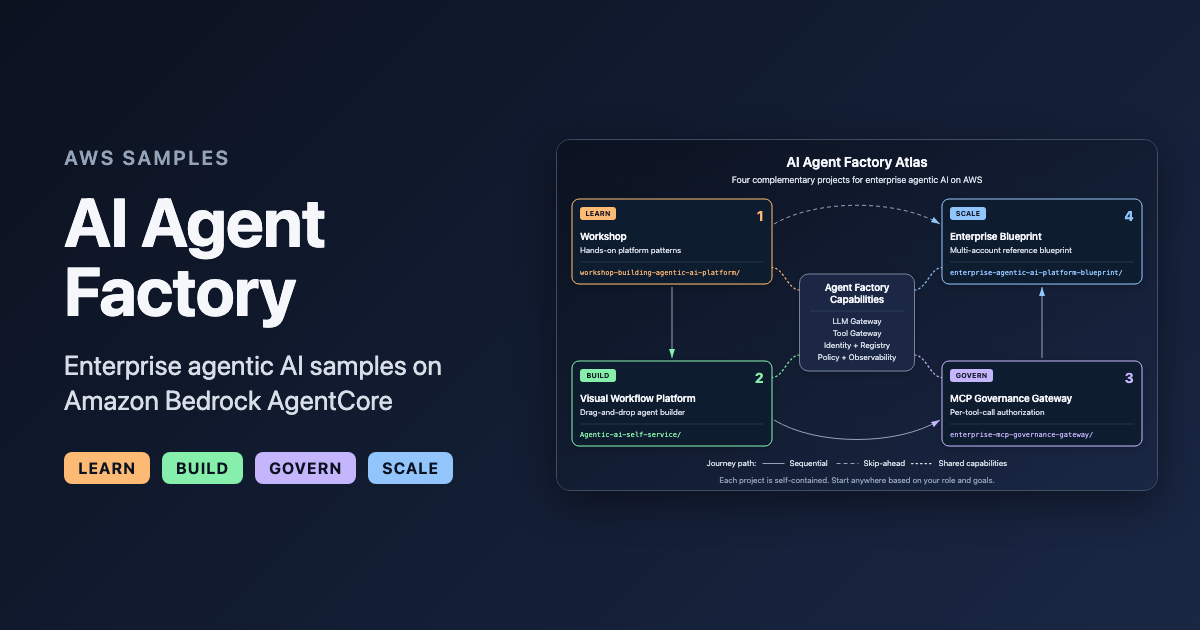
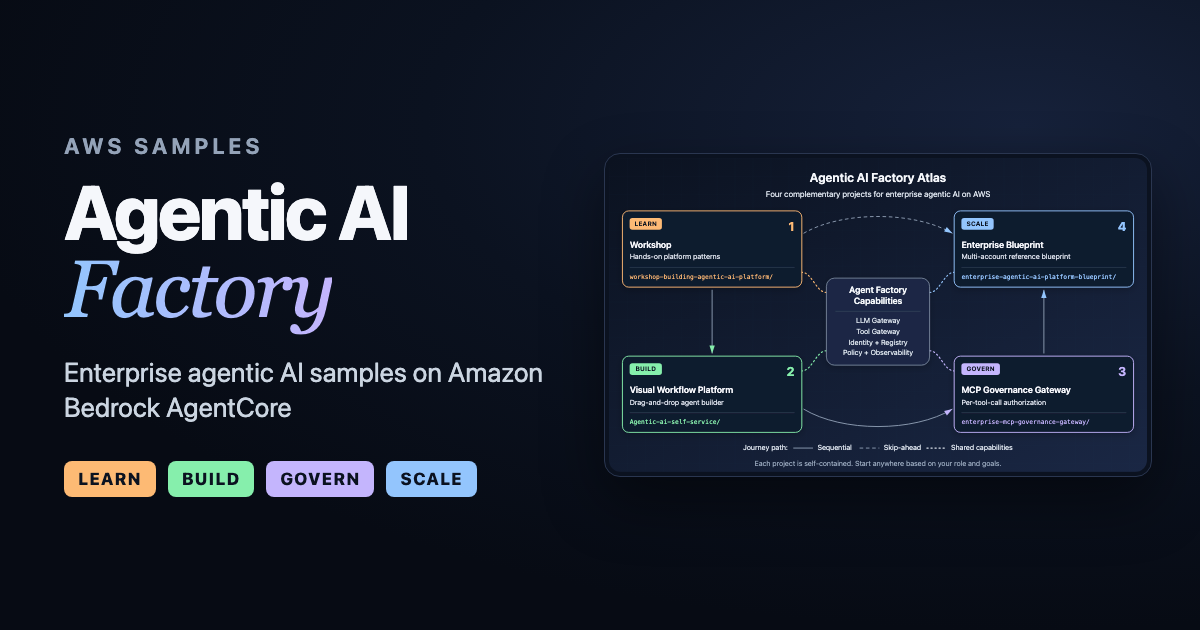
feat(docs-site): neon constellation and rename to Agentic AI Factory
The Home hero constellation draws from a dedicated neon palette
(--constellation-* tokens: amber, green, violet, cyan) instead of the
pastel on-dark text colours. Each node is a wide halo, a glow disc, a
solid core and a hot white centre; edges and the pulse are brighter and
slightly thicker. COPY_DIM is unchanged so the hero copy keeps its
contrast, and the chunk stays under its gzip budget.

Every "AI Agent Factory" in the docs site becomes "Agentic AI Factory":
site name, titles and descriptions, the Home h1, header logo, concept
page, not-found page, llms.txt and sitemap generation, the Playwright
site name and the docs-site README. The repository Atlas SVG rendered on
Home and Architecture carries the same rename. The social card is
regenerated by a new reproducible script, scripts/social-card.mjs.

The repository slug, package name and root README are unchanged.

Gates: typecheck, lint, 987 unit tests with the design lint, build, and
the Playwright suite (421 passed).

diff --git a/docs-site/src/components/constellation/render.ts b/docs-site/src/components/constellation/render.ts
@@ -1,4 +1,15 @@
-import { COPY_DIM, GLOW_RADIUS, PULSE_TAIL, edgesOf, inRect, type EngineState, type Rect } from './engine';
+import {
+  COPY_DIM,
+  CORE_HIGHLIGHT,
+  CORE_HIGHLIGHT_ALPHA,
+  GLOW_ALPHA,
+  GLOW_RADIUS,
+  PULSE_TAIL,
+  edgesOf,
+  inRect,
+  type EngineState,
+  type Rect,
+} from './engine';
 
 /**
  * The subset of CanvasRenderingContext2D the renderer uses. Typed structurally so unit tests can
@@ -44,7 +55,7 @@ export function drawFrame(ctx: Canvas2D, state: EngineState, palette: Palette, {
   ctx.lineCap = 'round';
 
   // Edges: colour of the lower-index node, alpha by distance, dimmed under the copy.
-  ctx.lineWidth = 1;
+  ctx.lineWidth = 1.5;
   for (const edge of edgesOf(state)) {
     const a = nodes[edge.a];
     const b = nodes[edge.b];
@@ -58,18 +69,27 @@ export function drawFrame(ctx: Canvas2D, state: EngineState, palette: Palette, {
     ctx.stroke();
   }
 
-  // Nodes: a faint glow disc and a small solid core.
+  // Nodes: a wide soft halo, a glow disc, a solid core and a hot white centre, so each point reads as a neon light.
   for (const node of nodes) {
     const dim = dimFor(copyRegion, node.x, node.y);
     const colour = palette.stages[node.stage % palette.stages.length];
     ctx.fillStyle = colour;
-    ctx.globalAlpha = node.alpha * 0.12 * dim;
+    ctx.globalAlpha = node.alpha * (GLOW_ALPHA / 3) * dim;
+    ctx.beginPath();
+    ctx.arc(node.x, node.y, GLOW_RADIUS * 2, 0, Math.PI * 2);
+    ctx.fill();
+    ctx.globalAlpha = node.alpha * GLOW_ALPHA * dim;
     ctx.beginPath();
     ctx.arc(node.x, node.y, GLOW_RADIUS, 0, Math.PI * 2);
     ctx.fill();
     ctx.globalAlpha = node.alpha * dim;
     ctx.beginPath();
     ctx.arc(node.x, node.y, node.radius, 0, Math.PI * 2);
+    ctx.fill();
+    ctx.fillStyle = CORE_HIGHLIGHT;
+    ctx.globalAlpha = node.alpha * CORE_HIGHLIGHT_ALPHA * dim;
+    ctx.beginPath();
+    ctx.arc(node.x, node.y, node.radius * 0.45, 0, Math.PI * 2);
     ctx.fill();
   }
 
@@ -87,15 +107,19 @@ export function drawFrame(ctx: Canvas2D, state: EngineState, palette: Palette, {
     const colour = palette.stages[from.stage % palette.stages.length];
     ctx.strokeStyle = colour;
     ctx.fillStyle = colour;
-    ctx.lineWidth = 1.5;
-    ctx.globalAlpha = 0.45 * dim;
+    ctx.lineWidth = 2;
+    ctx.globalAlpha = 0.6 * dim;
     ctx.beginPath();
     ctx.moveTo(tailX, tailY);
     ctx.lineTo(headX, headY);
     ctx.stroke();
-    ctx.globalAlpha = 0.9 * dim;
+    ctx.globalAlpha = 0.35 * dim;
     ctx.beginPath();
-    ctx.arc(headX, headY, 2, 0, Math.PI * 2);
+    ctx.arc(headX, headY, 7, 0, Math.PI * 2);
+    ctx.fill();
+    ctx.globalAlpha = 1 * dim;
+    ctx.beginPath();
+    ctx.arc(headX, headY, 2.5, 0, Math.PI * 2);
     ctx.fill();
   }
 

diff --git a/docs-site/src/pages/concepts/ArchitecturePage.tsx b/docs-site/src/pages/concepts/ArchitecturePage.tsx
@@ -41,7 +41,7 @@ const BLUEPRINT_NAME = projects.find((project) => project.id === 'blueprint')?.n
 
 /** Mirrors the text labels inside the SVG, including its own project names. */
 const ATLAS_ALT =
-  'AI Agent Factory Atlas: four complementary projects for enterprise agentic AI on AWS. In the centre sits a hub labelled Agent Factory Capabilities: LLM Gateway, Tool Gateway, Identity and Registry, Policy and Observability. Around it, four stages in order. Learn: Workshop, hands-on platform patterns. Build: Visual Workflow Platform, drag-and-drop agent builder. Govern: MCP Governance Gateway, per-tool-call authorization. Scale: Enterprise Blueprint, multi-account reference blueprint. A legend distinguishes the sequential journey path, a skip-ahead path, and the shared-capability links from each project to the hub. A footer reads: Each project is self-contained. Start anywhere based on your role and goals.';
+  'Agentic AI Factory Atlas: four complementary projects for enterprise agentic AI on AWS. In the centre sits a hub labelled Agent Factory Capabilities: LLM Gateway, Tool Gateway, Identity and Registry, Policy and Observability. Around it, four stages in order. Learn: Workshop, hands-on platform patterns. Build: Visual Workflow Platform, drag-and-drop agent builder. Govern: MCP Governance Gateway, per-tool-call authorization. Scale: Enterprise Blueprint, multi-account reference blueprint. A legend distinguishes the sequential journey path, a skip-ahead path, and the shared-capability links from each project to the hub. A footer reads: Each project is self-contained. Start anywhere based on your role and goals.';
 
 const CONCEPT_ALT =
   'Enterprise Agent Factory operating model and governed flow: enterprise governance, people and ownership, an Agent Factory control plane, and repeatable isolated Workstream cells connected by software delivery, inference, tool, telemetry and governance flows.';
@@ -120,7 +120,7 @@ export function ArchitecturePage() {
     <div className={styles.page}>
       <PageMeta
         title="Architecture"
-        description="Architecture diagrams for the AI Agent Factory: the repository atlas, the Blueprint's operating-model and AWS service-level figures, the workshop landing zone and LLM Gateway, the Self-Service platform architecture, and the Blueprint concepts of planes, cells and governed flows."
+        description="Architecture diagrams for the Agentic AI Factory: the repository atlas, the Blueprint's operating-model and AWS service-level figures, the workshop landing zone and LLM Gateway, the Self-Service platform architecture, and the Blueprint concepts of planes, cells and governed flows."
       />
       <PageHeader
         eyebrow="Concepts"

diff --git a/docs-site/src/pages/home/HomePage.tsx b/docs-site/src/pages/home/HomePage.tsx
@@ -50,7 +50,7 @@ function HeroBackdrop() {
 
 /** Same wording as the atlas figure on the Architecture page; project names match the SVG labels. */
 const ATLAS_ALT =
-  'AI Agent Factory Atlas: four complementary projects for enterprise agentic AI on AWS. In the centre sits a hub labelled Agent Factory Capabilities: LLM Gateway, Tool Gateway, Identity and Registry, Policy and Observability. Around it, four stages in order. Learn: Workshop, hands-on platform patterns. Build: Visual Workflow Platform, drag-and-drop agent builder. Govern: MCP Governance Gateway, per-tool-call authorization. Scale: Enterprise Blueprint, multi-account reference blueprint. A legend distinguishes the sequential journey path, a skip-ahead path, and the shared-capability links from each project to the hub. A footer reads: Each project is self-contained. Start anywhere based on your role and goals.';
+  'Agentic AI Factory Atlas: four complementary projects for enterprise agentic AI on AWS. In the centre sits a hub labelled Agent Factory Capabilities: LLM Gateway, Tool Gateway, Identity and Registry, Policy and Observability. Around it, four stages in order. Learn: Workshop, hands-on platform patterns. Build: Visual Workflow Platform, drag-and-drop agent builder. Govern: MCP Governance Gateway, per-tool-call authorization. Scale: Enterprise Blueprint, multi-account reference blueprint. A legend distinguishes the sequential journey path, a skip-ahead path, and the shared-capability links from each project to the hub. A footer reads: Each project is self-contained. Start anywhere based on your role and goals.';
 
 /** Role icons for the persona cards (always rendered aria-hidden beside the role name). */
 const PERSONA_ICONS: Record<PersonaIcon, LucideIcon> = {
@@ -65,7 +65,7 @@ export function HomePage() {
   return (
     <div className={styles.page}>
       <PageMeta
-        title="AI Agent Factory: enterprise agentic AI samples on AWS"
+        title="Agentic AI Factory: enterprise agentic AI samples on AWS"
         description="Four complementary AWS samples for learning, building, governing and scaling agentic AI with Amazon Bedrock and Amazon Bedrock AgentCore, compared by stage, regions, deploy time and cost."
         titleIsFull
       />
@@ -75,7 +75,7 @@ export function HomePage() {
         className={styles.hero}
         title={
           <>
-            AI Agent <span className={styles.titleAccent}>Factory</span>
+            Agentic AI <span className={styles.titleAccent}>Factory</span>
           </>
         }
         lead="Enterprise samples for building, governing, and operating agentic AI on AWS with Amazon Bedrock and Amazon Bedrock AgentCore."

diff --git a/docs-site/src/components/Constellation.test.tsx b/docs-site/src/components/Constellation.test.tsx
@@ -87,10 +87,11 @@ describe('constellation engine', () => {
       const speed = Math.hypot(node.vx, node.vy);
       expect(speed).toBeGreaterThanOrEqual(6);
       expect(speed).toBeLessThanOrEqual(10);
-      expect(node.radius).toBeGreaterThanOrEqual(1.5);
-      expect(node.radius).toBeLessThanOrEqual(3);
-      expect(node.alpha).toBeGreaterThanOrEqual(0.35);
-      expect(node.alpha).toBeLessThanOrEqual(0.6);
+      expect(node.radius).toBeGreaterThanOrEqual(1.75);
+      expect(node.radius).toBeLessThanOrEqual(3.25);
+      // Neon nodes: bright cores, so the alpha range sits in the upper part of the scale.
+      expect(node.alpha).toBeGreaterThanOrEqual(0.7);
+      expect(node.alpha).toBeLessThanOrEqual(1);
       expect([0, 1, 2, 3]).toContain(node.stage);
     }
   });
@@ -178,7 +179,7 @@ describe('constellation engine', () => {
 });
 
 describe('constellation renderer', () => {
-  it('draws every node as a glow and a core, edges as lines, and keeps alpha within [0, 1]', () => {
+  it('draws every node as a halo, a glow, a core and a hot centre, edges as lines, and keeps alpha within [0, 1]', () => {
     const state = createEngine({ width: 600, height: 300, nodeCount: 30, seed: 12 });
     const ctx = stubContext();
     const alphas: number[] = [];
@@ -191,7 +192,7 @@ describe('constellation renderer', () => {
     drawFrame(tracked, state, PALETTE, { dpr: 2, copyRegion: null });
     expect(ctx.setTransform).toHaveBeenCalledWith(2, 0, 0, 2, 0, 0);
     expect(ctx.clearRect).toHaveBeenCalledWith(0, 0, 600, 300);
-    expect(ctx.arc).toHaveBeenCalledTimes(state.nodes.length * 2);
+    expect(ctx.arc).toHaveBeenCalledTimes(state.nodes.length * 4);
     expect(ctx.stroke).toHaveBeenCalledTimes(edgesOf(state).length);
     for (const alpha of alphas) {
       expect(alpha).toBeGreaterThanOrEqual(0);

diff --git a/docs-site/src/components/constellation/engine.ts b/docs-site/src/components/constellation/engine.ts
@@ -19,14 +19,16 @@ export const LOW_POWER_FACTOR = 0.6;
 /** Node drift speed range at 1x, in CSS pixels per second. */
 export const SPEED_MIN = 6;
 export const SPEED_MAX = 10;
-export const RADIUS_MIN = 1.5;
-export const RADIUS_MAX = 3;
-export const NODE_ALPHA_MIN = 0.35;
-export const NODE_ALPHA_MAX = 0.6;
-/** Radius of the faint glow drawn under every node. */
-export const GLOW_RADIUS = 8;
+export const RADIUS_MIN = 1.75;
+export const RADIUS_MAX = 3.25;
+export const NODE_ALPHA_MIN = 0.7;
+export const NODE_ALPHA_MAX = 1;
+/** Radius of the glow disc drawn under every node; the halo is drawn at twice this radius. */
+export const GLOW_RADIUS = 10;
+/** Peak alpha of the glow disc; the outer halo uses a third of it. */
+export const GLOW_ALPHA = 0.45;
 /** Peak alpha of an edge (two nodes touching). */
-export const EDGE_ALPHA_MAX = 0.22;
+export const EDGE_ALPHA_MAX = 0.55;
 /** Pulses are spawned this many seconds apart. */
 export const PULSE_GAP_MIN = 2;
 export const PULSE_GAP_MAX = 4;
@@ -36,6 +38,9 @@ export const PULSE_DURATION = 0.9;
 export const PULSE_TAIL = 0.18;
 /** Everything drawn inside the copy region is dimmed by this factor so the hero text stays readable. */
 export const COPY_DIM = 0.25;
+/** Colour and alpha of the hot centre drawn on top of every node core, so each node reads as a lit neon point. */
+export const CORE_HIGHLIGHT = '#FFFFFF';
+export const CORE_HIGHLIGHT_ALPHA = 0.7;
 /** Number of stage colours (learn, build, govern, scale). */
 export const STAGE_COUNT = 4;
 

diff --git a/docs-site/src/App.test.tsx b/docs-site/src/App.test.tsx
@@ -99,14 +99,14 @@ describe('route change behaviour', () => {
     const scrollTo = vi.mocked(window.scrollTo);
     scrollTo.mockClear();
     const { router } = await renderRoute('/');
-    expect(document.title).toBe('AI Agent Factory: enterprise agentic AI samples on AWS');
+    expect(document.title).toBe('Agentic AI Factory: enterprise agentic AI samples on AWS');
 
     const startLink = screen.getByRole('navigation', { name: /main navigation/i }).querySelector('a[href*="/start/"]');
     expect(startLink).not.toBeNull();
     fireEvent.click(startLink as HTMLAnchorElement);
 
     await waitFor(() => expect(router.state.location.pathname).toBe(PATHS.start));
-    await waitFor(() => expect(document.title).toBe('Getting started | AI Agent Factory'));
+    await waitFor(() => expect(document.title).toBe('Getting started | Agentic AI Factory'));
     await waitFor(() => expect(screen.getByRole('main')).toHaveFocus());
     expect(scrollTo).toHaveBeenCalledWith(expect.objectContaining({ top: 0 }));
     // Pages may carry their own status regions (CodeBlock copy feedback), so target the route announcer.

diff --git a/docs-site/index.html b/docs-site/index.html
@@ -3,11 +3,11 @@
   <head>
     <meta charset="UTF-8" />
     <meta name="viewport" content="width=device-width, initial-scale=1.0" />
-    <meta name="description" content="AI Agent Factory: enterprise agentic AI samples for AWS with Amazon Bedrock and Amazon Bedrock AgentCore" />
+    <meta name="description" content="Agentic AI Factory: enterprise agentic AI samples for AWS with Amazon Bedrock and Amazon Bedrock AgentCore" />
     <meta name="color-scheme" content="light dark" />
     <meta name="theme-color" media="(prefers-color-scheme: light)" content="#0B1220" />
     <meta name="theme-color" media="(prefers-color-scheme: dark)" content="#070B14" />
-    <title>AI Agent Factory</title>
+    <title>Agentic AI Factory</title>
     <!-- Accent face for the Home title; same origin, see src/assets/fonts/README.md. Preloaded so
          the optional font-display finds it ready on the first paint. -->
     <link rel="preload" as="font" type="font/woff2" crossorigin href="./src/assets/fonts/instrument-serif-italic-latin.woff2" />

diff --git a/docs-site/src/pages/concepts/AgentFactoryPage.tsx b/docs-site/src/pages/concepts/AgentFactoryPage.tsx
@@ -30,7 +30,7 @@ const INDEPENDENCE_SOURCE: Source = {
 /** The one-line description under the root README's title. */
 const README_INTRO_SOURCE: Source = {
   file: ROOT_README,
-  heading: 'AI Agent Factory',
+  heading: 'Agentic AI Factory',
 };
 
 const BLUEPRINT_NAME = projects.find((project) => project.id === 'blueprint')?.name ?? 'Blueprint';
@@ -154,7 +154,7 @@ export function AgentFactoryPage() {
 
         <Section id="concept" title="The Agent Factory concept" flush>
           <p className={styles.prose}>
-            An <strong>AI Agent Factory</strong> is the people, patterns, and platform that let an organization turn
+            An <strong>Agentic AI Factory</strong> is the people, patterns, and platform that let an organization turn
             ideas into production agents reliably and at scale. The hard part is everything around the model:
             governed access, reusable tools, security and authorization, observability, and a repeatable way to ship
             agents to production.

diff --git a/docs-site/src/components/metaCollector.ts b/docs-site/src/components/metaCollector.ts
@@ -1,8 +1,8 @@
 import { createContext } from 'react';
 
-export const SITE_NAME = 'AI Agent Factory';
+export const SITE_NAME = 'Agentic AI Factory';
 export const DEFAULT_DESCRIPTION =
-  'AI Agent Factory: enterprise agentic AI samples for AWS with Amazon Bedrock and Amazon Bedrock AgentCore';
+  'Agentic AI Factory: enterprise agentic AI samples for AWS with Amazon Bedrock and Amazon Bedrock AgentCore';
 
 /**
  * Per-render collector. On the server, PageMeta writes into it during render
@@ -10,7 +10,7 @@ export const DEFAULT_DESCRIPTION =
  * the page title from it to announce navigation.
  */
 export interface MetaCollector {
-  /** Full document title, e.g. "Security | AI Agent Factory". */
+  /** Full document title, e.g. "Security | Agentic AI Factory". */
   title: string;
   /** Page part of the title, e.g. "Security". */
   pageTitle: string;

diff --git a/docs-site/src/components/Constellation.tsx b/docs-site/src/components/Constellation.tsx
@@ -20,9 +20,9 @@ let sessionChoice: Choice = null;
 const FRAME_MS = 1000 / 30;
 const RESIZE_DEBOUNCE_MS = 150;
 const MAX_DPR = 2;
-const STAGE_VARIABLES = ['--stage-learn-on-dark', '--stage-build-on-dark', '--stage-govern-on-dark', '--stage-scale-on-dark'];
+const STAGE_VARIABLES = ['--constellation-learn', '--constellation-build', '--constellation-govern', '--constellation-scale'];
 /** Same values as tokens.css, used only if a custom property cannot be read. */
-const STAGE_FALLBACK = ['#FDBA74', '#86EFAC', '#C4B5FD', '#93C5FD'];
+const STAGE_FALLBACK = ['#FFB341', '#3DF58F', '#C084FC', '#38D6FF'];
 
 function readPalette(): Palette {
   const computed = getComputedStyle(document.documentElement);

diff --git a/docs-site/src/pages/concepts/GlossaryPage.tsx b/docs-site/src/pages/concepts/GlossaryPage.tsx
@@ -47,7 +47,7 @@ export function GlossaryPage() {
     <div className={styles.page}>
       <PageMeta
         title="Glossary"
-        description="Definitions of the terms used across the four AI Agent Factory projects, with the meaning each project gives a term where the meanings differ: MCP Gateway, Registry, LiteLLM, Cedar, PrivateLink, Fast Path, self-service and more."
+        description="Definitions of the terms used across the four Agentic AI Factory projects, with the meaning each project gives a term where the meanings differ: MCP Gateway, Registry, LiteLLM, Cedar, PrivateLink, Fast Path, self-service and more."
       />
       <PageHeader
         eyebrow="Concepts"

diff --git a/docs-site/src/styles/tokens.css b/docs-site/src/styles/tokens.css
@@ -46,6 +46,14 @@
   --stage-govern-on-dark: #C4B5FD;
   --stage-scale-on-dark: #93C5FD;
 
+  /* Constellation (Home hero backdrop): neon takes on the four stage hues. Brighter and more
+     saturated than the on-dark text set because they are drawn on the canvas, never used as text;
+     COPY_DIM in the engine keeps whatever sits under the hero copy at a quarter of this. */
+  --constellation-learn: #FFB341;
+  --constellation-build: #3DF58F;
+  --constellation-govern: #C084FC;
+  --constellation-scale: #38D6FF;
+
   /* Stage tints: decorative borders and strokes (keep the original hues) */
   --stage-learn-tint: var(--color-amber);
   --stage-build-tint: var(--color-green);
